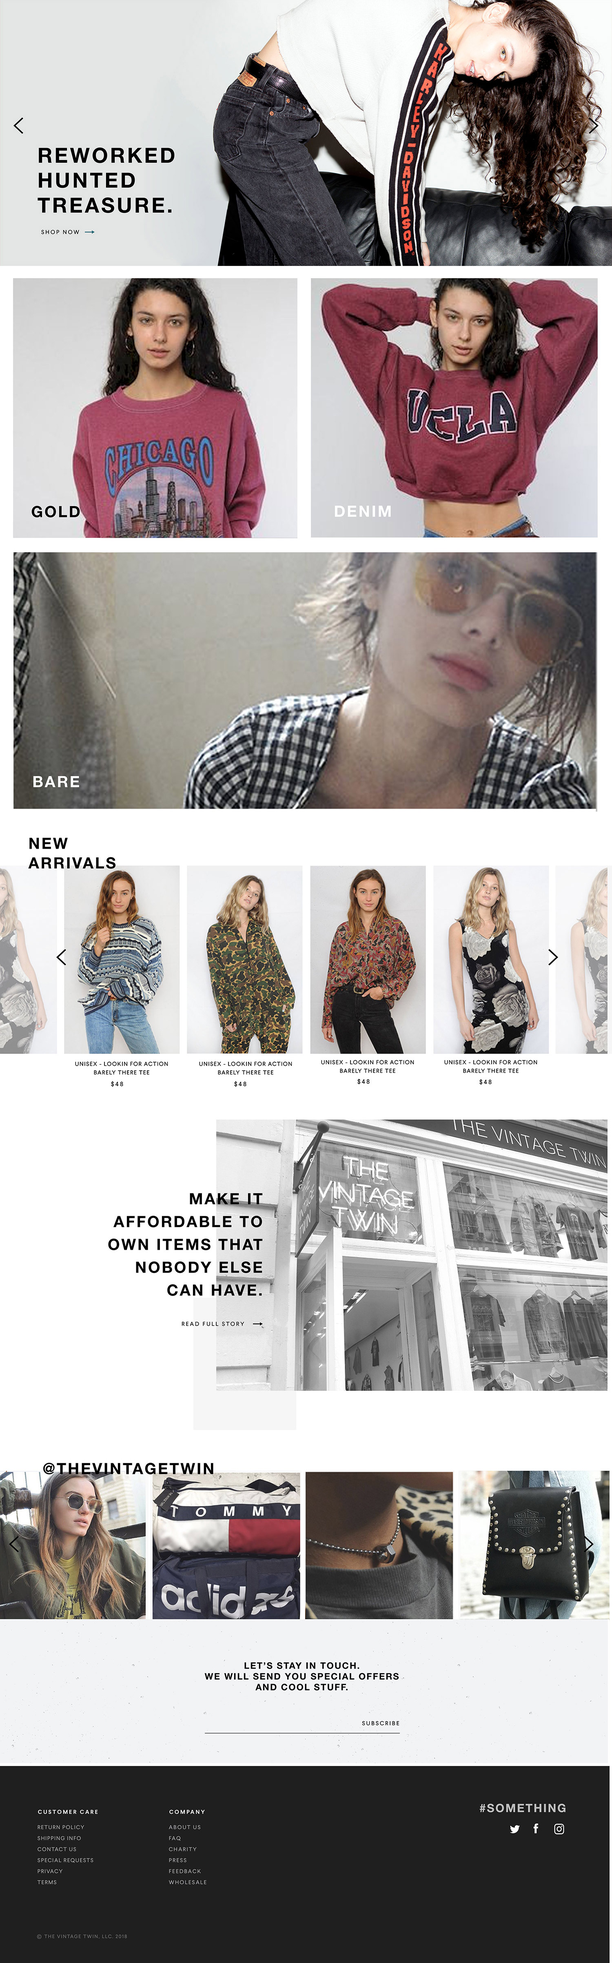
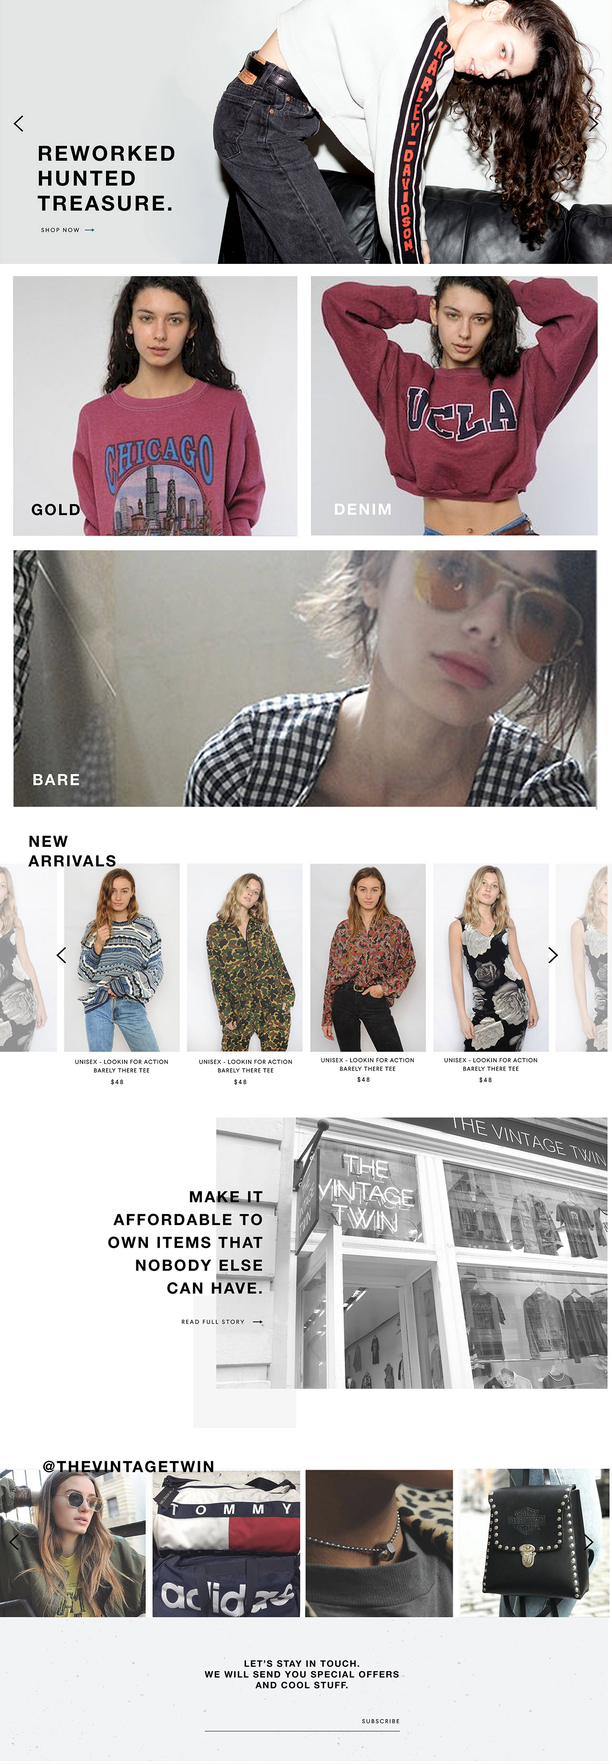
Implemented footer

diff --git a/style.css b/style.css
@@ -10,5 +10,5 @@
  */@font-face{font-family:'Font Awesome 5 Free';font-style:normal;font-weight:400;src:url("../../fonts/fa-regular-400.eot");src:url("../../fonts/fa-regular-400.eot?#iefix") format("embedded-opentype"),url("../../fonts/fa-regular-400.woff2") format("woff2"),url("../../fonts/fa-regular-400.woff") format("woff"),url("../../fonts/fa-regular-400.ttf") format("truetype"),url("../../fonts/fa-regular-400.svg#fontawesome") format("svg")}.far{font-family:'Font Awesome 5 Free';font-weight:400}/*!
  * Font Awesome Free 5.0.13 by @fontawesome - https://fontawesome.com
  * License - https://fontawesome.com/license (Icons: CC BY 4.0, Fonts: SIL OFL 1.1, Code: MIT License)
- */@font-face{font-family:'Font Awesome 5 Free';font-style:normal;font-weight:900;src:url("../../fonts/fa-solid-900.eot");src:url("../../fonts/fa-solid-900.eot?#iefix") format("embedded-opentype"),url("../../fonts/fa-solid-900.woff2") format("woff2"),url("../../fonts/fa-solid-900.woff") format("woff"),url("../../fonts/fa-solid-900.ttf") format("truetype"),url("../../fonts/fa-solid-900.svg#fontawesome") format("svg")}.fa,.fas{font-family:'Font Awesome 5 Free';font-weight:900}a,a[href^=tel]{color:inherit}@font-face{font-family:'Larsseit';src:url("fonts/Larsseit-Medium.eot");src:url("fonts/Larsseit-Medium.eot?#iefix") format("embedded-opentype"),url("fonts/Larsseit-Medium.woff2") format("woff2"),url("fonts/Larsseit-Medium.woff") format("woff"),url("fonts/Larsseit-Medium.ttf") format("truetype"),url("fonts/Larsseit-Medium.svg#Larsseit-Medium") format("svg");font-weight:500;font-style:normal}@font-face{font-family:'Larsseit';src:url("fonts/Larsseit-Light.eot");src:url("fonts/Larsseit-Light.eot?#iefix") format("embedded-opentype"),url("fonts/Larsseit-Light.woff2") format("woff2"),url("fonts/Larsseit-Light.woff") format("woff"),url("fonts/Larsseit-Light.ttf") format("truetype"),url("fonts/Larsseit-Light.svg#Larsseit-Light") format("svg");font-weight:300;font-style:normal}@font-face{font-family:'Larsseit';src:url("fonts/Larsseit.eot");src:url("fonts/Larsseit.eot?#iefix") format("embedded-opentype"),url("fonts/Larsseit.woff2") format("woff2"),url("fonts/Larsseit.woff") format("woff"),url("fonts/Larsseit.ttf") format("truetype"),url("fonts/Larsseit.svg#Larsseit") format("svg");font-weight:normal;font-style:normal}@font-face{font-family:'Larsseit';src:url("fonts/Larsseit-Bold.eot");src:url("fonts/Larsseit-Bold.eot?#iefix") format("embedded-opentype"),url("fonts/Larsseit-Bold.woff2") format("woff2"),url("fonts/Larsseit-Bold.woff") format("woff"),url("fonts/Larsseit-Bold.ttf") format("truetype"),url("fonts/Larsseit-Bold.svg#Larsseit-Bold") format("svg");font-weight:bold;font-style:normal}html{-ms-text-size-adjust:100%;-webkit-text-size-adjust:100%;font-size:62.5%}html,body{width:100%;margin:0;padding:0}body{background:white;font-family:"Helvetica", "Arial", sans-serif;-webkit-font-smoothing:antialiased}ul,menu,dir{-webkit-margin-before:0em;-webkit-margin-after:0em}*,*:before,*:after{-webkit-box-sizing:border-box;-moz-box-sizing:border-box;box-sizing:border-box}article,aside,details,figcaption,figure,footer,header,hgroup,main,menu,nav,section,summary{border:none;outline:none;margin:0;padding:0;display:block;position:relative}audio,canvas,progress,video{display:inline-block;vertical-align:baseline}audio:not([controls]){display:none;height:0}[hidden],template{display:none}img,embed,object,video,iframe{border:none;outline:none;max-width:100%;vertical-align:bottom}form{position:relative;display:block;width:100%}input[type="text"],input[type="submit"],button{display:block;margin:0;padding:0;border-radius:0;-moz-border-radius:0;-webkit-border-radius:0;-webkit-appearance:none;border:0;outline:none;position:relative;z-index:0;width:100%;-webkit-text-fill-color:inherit}input[type="text"]:-webkit-autofill{-webkit-box-shadow:0 0 0px 1000px black inset}input,button,select,textarea{font-family:inherit;font-size:inherit;line-height:inherit}::-webkit-input-placeholder{color:inherit}::-moz-placeholder{color:inherit}::-ms-placeholder{color:inherit}::placeholder{color:inherit}figure{margin:0}.clearfix:before,.clearfix:after{content:" ";display:table}.clearfix:after{clear:both}textarea{position:relative;display:block;margin:0;padding:0;-webkit-appearance:none}.centered{display:block;margin:0 auto;float:none}.invisible{visibility:hidden}blockquote p:before,blockquote p:after{content:'"';font-style:italic}.clear{clear:both}div{display:block;position:relative;vertical-align:bottom}a:link,a:visited,a:hover,a:active{text-decoration:none;border:none;outline:none;color:inherit}a[href^=tel]{text-decoration:none}h1,h2,h3,h4,h5,h6{margin:0;font-weight:900}h1{font-size:2.5em}h2{font-size:1.89em}h3{font-size:1.4em}h4{font-size:1.35em}p{margin:0.4em 0;font-size:1.23em;line-height:1.3;font-weight:200}abbr[title]{border-bottom:1px dotted}b,strong{font-weight:bold}dfn{font-style:italic}sup{top:-0.5em}sub{bottom:-0.25em}svg:not(:root){overflow:hidden}hr{-webkit-box-sizing:content-box;-moz-box-sizing:content-box;box-sizing:content-box;height:0}pre{overflow:auto}code,kbd,pre,samp{font-family:monospace, monospace;font-size:1em}button,input,optgroup,select,textarea{margin:0}button{overflow:visible}button,select{text-transform:none}button,html input[type="button"],input[type="reset"],input[type="submit"]{-webkit-appearance:button;cursor:pointer}button[disabled],html input[disabled]{cursor:default}button::-moz-focus-inner,input::-moz-focus-inner{border:0;padding:0}input{line-height:normal}input[type="checkbox"],input[type="radio"]{padding:0}input[type="number"]::-webkit-inner-spin-button,input[type="number"]::-webkit-outer-spin-button{height:auto}input[type="search"]{-webkit-appearance:textfield;-webkit-box-sizing:content-box;-moz-box-sizing:content-box;box-sizing:content-box}input[type="search"]::-webkit-search-cancel-button,input[type="search"]::-webkit-search-decoration{-webkit-appearance:none}fieldset{border:1px solid #c0c0c0;margin:0 2px;padding:0.35em 0.625em 0.75em}legend{border:0;padding:0}textarea{overflow:auto}optgroup{font-weight:bold}table{border-collapse:collapse;border-spacing:0}td,th{padding:0}.visible-print-block{display:none !important}.visible-print-inline{display:none !important}.visible-print-inline-block{display:none !important}@media print{*,*:before,*:after{background:transparent !important;color:#000 !important;-webkit-box-shadow:none !important;box-shadow:none !important;text-shadow:none !important}a,a:visited{text-decoration:underline}a[href]:after{content:" (" attr(href) ")"}abbr[title]:after{content:" (" attr(title) ")"}a[href^="#"]:after,a[href^="javascript:"]:after{content:""}pre,blockquote{border:1px solid #999;page-break-inside:avoid}thead{display:table-header-group}tr,img{page-break-inside:avoid}img{max-width:100% !important}p,h2,h3{orphans:3;widows:3}h2,h3{page-break-after:avoid}.navbar{display:none}.btn>.caret,.dropup>.btn>.caret{border-top-color:#000 !important}.label{border:1px solid #000}.table{border-collapse:collapse !important}.table td,.table th{background-color:#fff !important}.table-bordered th,.table-bordered td{border:1px solid #ddd !important}.visible-print{display:block !important}table.visible-print{display:table !important}tr.visible-print{display:table-row !important}th.visible-print,td.visible-print{display:table-cell !important}.visible-print-block{display:block !important}.visible-print-inline{display:inline !important}.visible-print-inline-block{display:inline-block !important}.hidden-print{display:none !important}}.__dev__{position:absolute;left:0;top:0;z-index:9999;background:url("dev/home_d.jpg") no-repeat center 0em/1500px;height:4953px;width:100%;opacity:0.4;display:none}.container{margin-right:auto;margin-left:auto;padding-left:15px;padding-right:15px}@media (min-width: 768px){.container{width:750px}}@media (min-width: 940px){.container{width:970px}}@media (min-width: 1500px){.container{width:1470px}}.container-fluid{margin-right:auto;margin-left:auto;padding-left:15px;padding-right:15px}.row{margin-left:-15px;margin-right:-15px}.col-xs-1,.col-sm-1,.col-md-1,.col-lg-1,.col-xs-2,.col-sm-2,.col-md-2,.col-lg-2,.col-xs-3,.col-sm-3,.col-md-3,.col-lg-3,.col-xs-4,.col-sm-4,.col-md-4,.col-lg-4,.col-xs-5,.col-sm-5,.col-md-5,.col-lg-5,.col-xs-6,.col-sm-6,.col-md-6,.col-lg-6,.col-xs-7,.col-sm-7,.col-md-7,.col-lg-7,.col-xs-8,.col-sm-8,.col-md-8,.col-lg-8,.col-xs-9,.col-sm-9,.col-md-9,.col-lg-9,.col-xs-10,.col-sm-10,.col-md-10,.col-lg-10,.col-xs-11,.col-sm-11,.col-md-11,.col-lg-11,.col-xs-12,.col-sm-12,.col-md-12,.col-lg-12{position:relative;padding-left:15px;padding-right:15px}.col-xs-1,.col-xs-2,.col-xs-3,.col-xs-4,.col-xs-5,.col-xs-6,.col-xs-7,.col-xs-8,.col-xs-9,.col-xs-10,.col-xs-11,.col-xs-12{float:left}.col-xs-12{width:100%}.col-xs-11{width:91.66666667%}.col-xs-10{width:83.33333333%}.col-xs-9{width:75%}.col-xs-8{width:66.66666667%}.col-xs-7{width:58.33333333%}.col-xs-6{width:50%}.col-xs-5{width:41.66666667%}.col-xs-4{width:33.33333333%}.col-xs-3{width:25%}.col-xs-2{width:16.66666667%}.col-xs-1{width:8.33333333%}.col-xs-pull-12{right:100%}.col-xs-pull-11{right:91.66666667%}.col-xs-pull-10{right:83.33333333%}.col-xs-pull-9{right:75%}.col-xs-pull-8{right:66.66666667%}.col-xs-pull-7{right:58.33333333%}.col-xs-pull-6{right:50%}.col-xs-pull-5{right:41.66666667%}.col-xs-pull-4{right:33.33333333%}.col-xs-pull-3{right:25%}.col-xs-pull-2{right:16.66666667%}.col-xs-pull-1{right:8.33333333%}.col-xs-pull-0{right:auto}.col-xs-push-12{left:100%}.col-xs-push-11{left:91.66666667%}.col-xs-push-10{left:83.33333333%}.col-xs-push-9{left:75%}.col-xs-push-8{left:66.66666667%}.col-xs-push-7{left:58.33333333%}.col-xs-push-6{left:50%}.col-xs-push-5{left:41.66666667%}.col-xs-push-4{left:33.33333333%}.col-xs-push-3{left:25%}.col-xs-push-2{left:16.66666667%}.col-xs-push-1{left:8.33333333%}.col-xs-push-0{left:auto}.col-xs-offset-12{margin-left:100%}.col-xs-offset-11{margin-left:91.66666667%}.col-xs-offset-10{margin-left:83.33333333%}.col-xs-offset-9{margin-left:75%}.col-xs-offset-8{margin-left:66.66666667%}.col-xs-offset-7{margin-left:58.33333333%}.col-xs-offset-6{margin-left:50%}.col-xs-offset-5{margin-left:41.66666667%}.col-xs-offset-4{margin-left:33.33333333%}.col-xs-offset-3{margin-left:25%}.col-xs-offset-2{margin-left:16.66666667%}.col-xs-offset-1{margin-left:8.33333333%}.col-xs-offset-0{margin-left:0%}@media (min-width: 768px){.col-sm-1,.col-sm-2,.col-sm-3,.col-sm-4,.col-sm-5,.col-sm-6,.col-sm-7,.col-sm-8,.col-sm-9,.col-sm-10,.col-sm-11,.col-sm-12{float:left}.col-sm-12{width:100%}.col-sm-11{width:91.66666667%}.col-sm-10{width:83.33333333%}.col-sm-9{width:75%}.col-sm-8{width:66.66666667%}.col-sm-7{width:58.33333333%}.col-sm-6{width:50%}.col-sm-5{width:41.66666667%}.col-sm-4{width:33.33333333%}.col-sm-3{width:25%}.col-sm-2{width:16.66666667%}.col-sm-1{width:8.33333333%}.col-sm-pull-12{right:100%}.col-sm-pull-11{right:91.66666667%}.col-sm-pull-10{right:83.33333333%}.col-sm-pull-9{right:75%}.col-sm-pull-8{right:66.66666667%}.col-sm-pull-7{right:58.33333333%}.col-sm-pull-6{right:50%}.col-sm-pull-5{right:41.66666667%}.col-sm-pull-4{right:33.33333333%}.col-sm-pull-3{right:25%}.col-sm-pull-2{right:16.66666667%}.col-sm-pull-1{right:8.33333333%}.col-sm-pull-0{right:auto}.col-sm-push-12{left:100%}.col-sm-push-11{left:91.66666667%}.col-sm-push-10{left:83.33333333%}.col-sm-push-9{left:75%}.col-sm-push-8{left:66.66666667%}.col-sm-push-7{left:58.33333333%}.col-sm-push-6{left:50%}.col-sm-push-5{left:41.66666667%}.col-sm-push-4{left:33.33333333%}.col-sm-push-3{left:25%}.col-sm-push-2{left:16.66666667%}.col-sm-push-1{left:8.33333333%}.col-sm-push-0{left:auto}.col-sm-offset-12{margin-left:100%}.col-sm-offset-11{margin-left:91.66666667%}.col-sm-offset-10{margin-left:83.33333333%}.col-sm-offset-9{margin-left:75%}.col-sm-offset-8{margin-left:66.66666667%}.col-sm-offset-7{margin-left:58.33333333%}.col-sm-offset-6{margin-left:50%}.col-sm-offset-5{margin-left:41.66666667%}.col-sm-offset-4{margin-left:33.33333333%}.col-sm-offset-3{margin-left:25%}.col-sm-offset-2{margin-left:16.66666667%}.col-sm-offset-1{margin-left:8.33333333%}.col-sm-offset-0{margin-left:0%}}@media (min-width: 940px){.col-md-1,.col-md-2,.col-md-3,.col-md-4,.col-md-5,.col-md-6,.col-md-7,.col-md-8,.col-md-9,.col-md-10,.col-md-11,.col-md-12{float:left}.col-md-12{width:100%}.col-md-11{width:91.66666667%}.col-md-10{width:83.33333333%}.col-md-9{width:75%}.col-md-8{width:66.66666667%}.col-md-7{width:58.33333333%}.col-md-6{width:50%}.col-md-5{width:41.66666667%}.col-md-4{width:33.33333333%}.col-md-3{width:25%}.col-md-2{width:16.66666667%}.col-md-1{width:8.33333333%}.col-md-pull-12{right:100%}.col-md-pull-11{right:91.66666667%}.col-md-pull-10{right:83.33333333%}.col-md-pull-9{right:75%}.col-md-pull-8{right:66.66666667%}.col-md-pull-7{right:58.33333333%}.col-md-pull-6{right:50%}.col-md-pull-5{right:41.66666667%}.col-md-pull-4{right:33.33333333%}.col-md-pull-3{right:25%}.col-md-pull-2{right:16.66666667%}.col-md-pull-1{right:8.33333333%}.col-md-pull-0{right:auto}.col-md-push-12{left:100%}.col-md-push-11{left:91.66666667%}.col-md-push-10{left:83.33333333%}.col-md-push-9{left:75%}.col-md-push-8{left:66.66666667%}.col-md-push-7{left:58.33333333%}.col-md-push-6{left:50%}.col-md-push-5{left:41.66666667%}.col-md-push-4{left:33.33333333%}.col-md-push-3{left:25%}.col-md-push-2{left:16.66666667%}.col-md-push-1{left:8.33333333%}.col-md-push-0{left:auto}.col-md-offset-12{margin-left:100%}.col-md-offset-11{margin-left:91.66666667%}.col-md-offset-10{margin-left:83.33333333%}.col-md-offset-9{margin-left:75%}.col-md-offset-8{margin-left:66.66666667%}.col-md-offset-7{margin-left:58.33333333%}.col-md-offset-6{margin-left:50%}.col-md-offset-5{margin-left:41.66666667%}.col-md-offset-4{margin-left:33.33333333%}.col-md-offset-3{margin-left:25%}.col-md-offset-2{margin-left:16.66666667%}.col-md-offset-1{margin-left:8.33333333%}.col-md-offset-0{margin-left:0%}}@media (min-width: 1400px){.col-lg-1,.col-lg-2,.col-lg-3,.col-lg-4,.col-lg-5,.col-lg-6,.col-lg-7,.col-lg-8,.col-lg-9,.col-lg-10,.col-lg-11,.col-lg-12{float:left}.col-lg-12{width:100%}.col-lg-11{width:91.66666667%}.col-lg-10{width:83.33333333%}.col-lg-9{width:75%}.col-lg-8{width:66.66666667%}.col-lg-7{width:58.33333333%}.col-lg-6{width:50%}.col-lg-5{width:41.66666667%}.col-lg-4{width:33.33333333%}.col-lg-3{width:25%}.col-lg-2{width:16.66666667%}.col-lg-1{width:8.33333333%}.col-lg-pull-12{right:100%}.col-lg-pull-11{right:91.66666667%}.col-lg-pull-10{right:83.33333333%}.col-lg-pull-9{right:75%}.col-lg-pull-8{right:66.66666667%}.col-lg-pull-7{right:58.33333333%}.col-lg-pull-6{right:50%}.col-lg-pull-5{right:41.66666667%}.col-lg-pull-4{right:33.33333333%}.col-lg-pull-3{right:25%}.col-lg-pull-2{right:16.66666667%}.col-lg-pull-1{right:8.33333333%}.col-lg-pull-0{right:auto}.col-lg-push-12{left:100%}.col-lg-push-11{left:91.66666667%}.col-lg-push-10{left:83.33333333%}.col-lg-push-9{left:75%}.col-lg-push-8{left:66.66666667%}.col-lg-push-7{left:58.33333333%}.col-lg-push-6{left:50%}.col-lg-push-5{left:41.66666667%}.col-lg-push-4{left:33.33333333%}.col-lg-push-3{left:25%}.col-lg-push-2{left:16.66666667%}.col-lg-push-1{left:8.33333333%}.col-lg-push-0{left:auto}.col-lg-offset-12{margin-left:100%}.col-lg-offset-11{margin-left:91.66666667%}.col-lg-offset-10{margin-left:83.33333333%}.col-lg-offset-9{margin-left:75%}.col-lg-offset-8{margin-left:66.66666667%}.col-lg-offset-7{margin-left:58.33333333%}.col-lg-offset-6{margin-left:50%}.col-lg-offset-5{margin-left:41.66666667%}.col-lg-offset-4{margin-left:33.33333333%}.col-lg-offset-3{margin-left:25%}.col-lg-offset-2{margin-left:16.66666667%}.col-lg-offset-1{margin-left:8.33333333%}.col-lg-offset-0{margin-left:0%}}.clearfix:before,.clearfix:after,.container:before,.container:after,.container-fluid:before,.container-fluid:after,.row:before,.row:after{content:" ";display:table}.clearfix:after,.container:after,.container-fluid:after,.row:after{clear:both}.center-block{display:block;margin-left:auto;margin-right:auto}.pull-right{float:right !important}.pull-left{float:left !important}.hide{display:none !important}.show{display:block !important}.invisible{visibility:hidden}.text-hide{font:0/0 a;color:transparent;text-shadow:none;background-color:transparent;border:0}.hidden{display:none !important}.affix{position:fixed}@-ms-viewport{width:device-width}.visible-xs,.visible-sm,.visible-md,.visible-lg{display:none !important}.visible-xs-block,.visible-xs-inline,.visible-xs-inline-block,.visible-sm-block,.visible-sm-inline,.visible-sm-inline-block,.visible-md-block,.visible-md-inline,.visible-md-inline-block,.visible-lg-block,.visible-lg-inline,.visible-lg-inline-block{display:none !important}@media (max-width: 767px){.visible-xs{display:block !important}table.visible-xs{display:table !important}tr.visible-xs{display:table-row !important}th.visible-xs,td.visible-xs{display:table-cell !important}}@media (max-width: 767px){.visible-xs-block{display:block !important}}@media (max-width: 767px){.visible-xs-inline{display:inline !important}}@media (max-width: 767px){.visible-xs-inline-block{display:inline-block !important}}@media (min-width: 768px) and (max-width: 939px){.visible-sm{display:block !important}table.visible-sm{display:table !important}tr.visible-sm{display:table-row !important}th.visible-sm,td.visible-sm{display:table-cell !important}}@media (min-width: 768px) and (max-width: 939px){.visible-sm-block{display:block !important}}@media (min-width: 768px) and (max-width: 939px){.visible-sm-inline{display:inline !important}}@media (min-width: 768px) and (max-width: 939px){.visible-sm-inline-block{display:inline-block !important}}@media (min-width: 940px) and (max-width: 1399px){.visible-md{display:block !important}table.visible-md{display:table !important}tr.visible-md{display:table-row !important}th.visible-md,td.visible-md{display:table-cell !important}}@media (min-width: 940px) and (max-width: 1399px){.visible-md-block{display:block !important}}@media (min-width: 940px) and (max-width: 1399px){.visible-md-inline{display:inline !important}}@media (min-width: 940px) and (max-width: 1399px){.visible-md-inline-block{display:inline-block !important}}@media (min-width: 1400px){.visible-lg{display:block !important}table.visible-lg{display:table !important}tr.visible-lg{display:table-row !important}th.visible-lg,td.visible-lg{display:table-cell !important}}@media (min-width: 1400px){.visible-lg-block{display:block !important}}@media (min-width: 1400px){.visible-lg-inline{display:inline !important}}@media (min-width: 1400px){.visible-lg-inline-block{display:inline-block !important}}@media (max-width: 767px){.hidden-xs{display:none !important}}@media (min-width: 768px) and (max-width: 939px){.hidden-sm{display:none !important}}@media (min-width: 940px) and (max-width: 1399px){.hidden-md{display:none !important}}@media (min-width: 1400px){.hidden-lg{display:none !important}}.visible-print{display:none !important}.main_header{position:fixed;left:0;top:0;z-index:999;background:rgba(255,255,255,0.8);height:14em;width:100%;font-family:'Larsseit';font-weight:500}.main_header ul{list-style-type:none}.main_header__promo_bar{padding:0.8em 0;background:black;color:white;font-size:1.45em;font-weight:300;text-align:center;text-transform:uppercase;letter-spacing:0.3em}.main_header__promo_bar span{color:#b3f1e6}.main_header__logo{margin:3.6em 0 0;width:28.8em;float:left}.main_header__nav{float:left}.main_header__nav ul{margin:3.9em 7em 0;padding:0}.main_header__nav li{margin:0 1.03em;display:inline-block;text-transform:uppercase;color:black;font-size:1.4em;letter-spacing:0.25em}.main_header__nav .submenu{display:none}.main_header__secondary_nav{float:right}.main_header__secondary_nav ul{margin:3.7em 0 0;padding:0}.main_header__secondary_nav li{margin:0 0 0 0.73em;display:inline-block;vertical-align:middle;text-transform:uppercase;color:black;font-size:1.4em;letter-spacing:0.25em}.main_header__secondary_nav li:first-of-type{margin:0}.main_header__secondary_nav .fas,.main_header__secondary_nav .far{font-size:1.5em;cursor:pointer}.page_content{padding-top:14em}
+ */@font-face{font-family:'Font Awesome 5 Free';font-style:normal;font-weight:900;src:url("../../fonts/fa-solid-900.eot");src:url("../../fonts/fa-solid-900.eot?#iefix") format("embedded-opentype"),url("../../fonts/fa-solid-900.woff2") format("woff2"),url("../../fonts/fa-solid-900.woff") format("woff"),url("../../fonts/fa-solid-900.ttf") format("truetype"),url("../../fonts/fa-solid-900.svg#fontawesome") format("svg")}.fa,.fas{font-family:'Font Awesome 5 Free';font-weight:900}a,a[href^=tel]{color:inherit}@font-face{font-family:'Larsseit';src:url("fonts/Larsseit-Medium.eot");src:url("fonts/Larsseit-Medium.eot?#iefix") format("embedded-opentype"),url("fonts/Larsseit-Medium.woff2") format("woff2"),url("fonts/Larsseit-Medium.woff") format("woff"),url("fonts/Larsseit-Medium.ttf") format("truetype"),url("fonts/Larsseit-Medium.svg#Larsseit-Medium") format("svg");font-weight:500;font-style:normal}@font-face{font-family:'Larsseit';src:url("fonts/Larsseit-Light.eot");src:url("fonts/Larsseit-Light.eot?#iefix") format("embedded-opentype"),url("fonts/Larsseit-Light.woff2") format("woff2"),url("fonts/Larsseit-Light.woff") format("woff"),url("fonts/Larsseit-Light.ttf") format("truetype"),url("fonts/Larsseit-Light.svg#Larsseit-Light") format("svg");font-weight:300;font-style:normal}@font-face{font-family:'Larsseit';src:url("fonts/Larsseit.eot");src:url("fonts/Larsseit.eot?#iefix") format("embedded-opentype"),url("fonts/Larsseit.woff2") format("woff2"),url("fonts/Larsseit.woff") format("woff"),url("fonts/Larsseit.ttf") format("truetype"),url("fonts/Larsseit.svg#Larsseit") format("svg");font-weight:normal;font-style:normal}@font-face{font-family:'Larsseit';src:url("fonts/Larsseit-Bold.eot");src:url("fonts/Larsseit-Bold.eot?#iefix") format("embedded-opentype"),url("fonts/Larsseit-Bold.woff2") format("woff2"),url("fonts/Larsseit-Bold.woff") format("woff"),url("fonts/Larsseit-Bold.ttf") format("truetype"),url("fonts/Larsseit-Bold.svg#Larsseit-Bold") format("svg");font-weight:bold;font-style:normal}html{-ms-text-size-adjust:100%;-webkit-text-size-adjust:100%;font-size:62.5%}html,body{width:100%;margin:0;padding:0}body{background:white;font-family:"Helvetica", "Arial", sans-serif;-webkit-font-smoothing:antialiased}ul,menu,dir{-webkit-margin-before:0em;-webkit-margin-after:0em}*,*:before,*:after{-webkit-box-sizing:border-box;-moz-box-sizing:border-box;box-sizing:border-box}article,aside,details,figcaption,figure,footer,header,hgroup,main,menu,nav,section,summary{border:none;outline:none;margin:0;padding:0;display:block;position:relative}audio,canvas,progress,video{display:inline-block;vertical-align:baseline}audio:not([controls]){display:none;height:0}[hidden],template{display:none}img,embed,object,video,iframe{border:none;outline:none;max-width:100%;vertical-align:bottom}form{position:relative;display:block;width:100%}input[type="text"],input[type="submit"],button{display:block;margin:0;padding:0;border-radius:0;-moz-border-radius:0;-webkit-border-radius:0;-webkit-appearance:none;border:0;outline:none;position:relative;z-index:0;width:100%;-webkit-text-fill-color:inherit}input[type="text"]:-webkit-autofill{-webkit-box-shadow:0 0 0px 1000px black inset}input,button,select,textarea{font-family:inherit;font-size:inherit;line-height:inherit}::-webkit-input-placeholder{color:inherit}::-moz-placeholder{color:inherit}::-ms-placeholder{color:inherit}::placeholder{color:inherit}figure{margin:0}.clearfix:before,.clearfix:after{content:" ";display:table}.clearfix:after{clear:both}textarea{position:relative;display:block;margin:0;padding:0;-webkit-appearance:none}.centered{display:block;margin:0 auto;float:none}.invisible{visibility:hidden}blockquote p:before,blockquote p:after{content:'"';font-style:italic}.clear{clear:both}div{display:block;position:relative;vertical-align:bottom}a:link,a:visited,a:hover,a:active{text-decoration:none;border:none;outline:none;color:inherit}a[href^=tel]{text-decoration:none}h1,h2,h3,h4,h5,h6{margin:0;font-weight:900}h1{font-size:2.5em}h2{font-size:1.89em}h3{font-size:1.4em}h4{font-size:1.35em}p{margin:0.4em 0;font-size:1.23em;line-height:1.3;font-weight:200}abbr[title]{border-bottom:1px dotted}b,strong{font-weight:bold}dfn{font-style:italic}sup{top:-0.5em}sub{bottom:-0.25em}svg:not(:root){overflow:hidden}hr{-webkit-box-sizing:content-box;-moz-box-sizing:content-box;box-sizing:content-box;height:0}pre{overflow:auto}code,kbd,pre,samp{font-family:monospace, monospace;font-size:1em}button,input,optgroup,select,textarea{margin:0}button{overflow:visible}button,select{text-transform:none}button,html input[type="button"],input[type="reset"],input[type="submit"]{-webkit-appearance:button;cursor:pointer}button[disabled],html input[disabled]{cursor:default}button::-moz-focus-inner,input::-moz-focus-inner{border:0;padding:0}input{line-height:normal}input[type="checkbox"],input[type="radio"]{padding:0}input[type="number"]::-webkit-inner-spin-button,input[type="number"]::-webkit-outer-spin-button{height:auto}input[type="search"]{-webkit-appearance:textfield;-webkit-box-sizing:content-box;-moz-box-sizing:content-box;box-sizing:content-box}input[type="search"]::-webkit-search-cancel-button,input[type="search"]::-webkit-search-decoration{-webkit-appearance:none}fieldset{border:1px solid #c0c0c0;margin:0 2px;padding:0.35em 0.625em 0.75em}legend{border:0;padding:0}textarea{overflow:auto}optgroup{font-weight:bold}table{border-collapse:collapse;border-spacing:0}td,th{padding:0}.visible-print-block{display:none !important}.visible-print-inline{display:none !important}.visible-print-inline-block{display:none !important}@media print{*,*:before,*:after{background:transparent !important;color:#000 !important;-webkit-box-shadow:none !important;box-shadow:none !important;text-shadow:none !important}a,a:visited{text-decoration:underline}a[href]:after{content:" (" attr(href) ")"}abbr[title]:after{content:" (" attr(title) ")"}a[href^="#"]:after,a[href^="javascript:"]:after{content:""}pre,blockquote{border:1px solid #999;page-break-inside:avoid}thead{display:table-header-group}tr,img{page-break-inside:avoid}img{max-width:100% !important}p,h2,h3{orphans:3;widows:3}h2,h3{page-break-after:avoid}.navbar{display:none}.btn>.caret,.dropup>.btn>.caret{border-top-color:#000 !important}.label{border:1px solid #000}.table{border-collapse:collapse !important}.table td,.table th{background-color:#fff !important}.table-bordered th,.table-bordered td{border:1px solid #ddd !important}.visible-print{display:block !important}table.visible-print{display:table !important}tr.visible-print{display:table-row !important}th.visible-print,td.visible-print{display:table-cell !important}.visible-print-block{display:block !important}.visible-print-inline{display:inline !important}.visible-print-inline-block{display:inline-block !important}.hidden-print{display:none !important}}.__dev__{position:absolute;left:0;top:0;z-index:9999;background:url("dev/home_d.jpg") no-repeat center -433em/1500px;height:4953px;width:100%;opacity:0.4;display:none}.container{margin-right:auto;margin-left:auto;padding-left:15px;padding-right:15px}@media (min-width: 768px){.container{width:750px}}@media (min-width: 940px){.container{width:970px}}@media (min-width: 1500px){.container{width:1470px}}.container-fluid{margin-right:auto;margin-left:auto;padding-left:15px;padding-right:15px}.row{margin-left:-15px;margin-right:-15px}.col-xs-1,.col-sm-1,.col-md-1,.col-lg-1,.col-xs-2,.col-sm-2,.col-md-2,.col-lg-2,.col-xs-3,.col-sm-3,.col-md-3,.col-lg-3,.col-xs-4,.col-sm-4,.col-md-4,.col-lg-4,.col-xs-5,.col-sm-5,.col-md-5,.col-lg-5,.col-xs-6,.col-sm-6,.col-md-6,.col-lg-6,.col-xs-7,.col-sm-7,.col-md-7,.col-lg-7,.col-xs-8,.col-sm-8,.col-md-8,.col-lg-8,.col-xs-9,.col-sm-9,.col-md-9,.col-lg-9,.col-xs-10,.col-sm-10,.col-md-10,.col-lg-10,.col-xs-11,.col-sm-11,.col-md-11,.col-lg-11,.col-xs-12,.col-sm-12,.col-md-12,.col-lg-12{position:relative;padding-left:15px;padding-right:15px}.col-xs-1,.col-xs-2,.col-xs-3,.col-xs-4,.col-xs-5,.col-xs-6,.col-xs-7,.col-xs-8,.col-xs-9,.col-xs-10,.col-xs-11,.col-xs-12{float:left}.col-xs-12{width:100%}.col-xs-11{width:91.66666667%}.col-xs-10{width:83.33333333%}.col-xs-9{width:75%}.col-xs-8{width:66.66666667%}.col-xs-7{width:58.33333333%}.col-xs-6{width:50%}.col-xs-5{width:41.66666667%}.col-xs-4{width:33.33333333%}.col-xs-3{width:25%}.col-xs-2{width:16.66666667%}.col-xs-1{width:8.33333333%}.col-xs-pull-12{right:100%}.col-xs-pull-11{right:91.66666667%}.col-xs-pull-10{right:83.33333333%}.col-xs-pull-9{right:75%}.col-xs-pull-8{right:66.66666667%}.col-xs-pull-7{right:58.33333333%}.col-xs-pull-6{right:50%}.col-xs-pull-5{right:41.66666667%}.col-xs-pull-4{right:33.33333333%}.col-xs-pull-3{right:25%}.col-xs-pull-2{right:16.66666667%}.col-xs-pull-1{right:8.33333333%}.col-xs-pull-0{right:auto}.col-xs-push-12{left:100%}.col-xs-push-11{left:91.66666667%}.col-xs-push-10{left:83.33333333%}.col-xs-push-9{left:75%}.col-xs-push-8{left:66.66666667%}.col-xs-push-7{left:58.33333333%}.col-xs-push-6{left:50%}.col-xs-push-5{left:41.66666667%}.col-xs-push-4{left:33.33333333%}.col-xs-push-3{left:25%}.col-xs-push-2{left:16.66666667%}.col-xs-push-1{left:8.33333333%}.col-xs-push-0{left:auto}.col-xs-offset-12{margin-left:100%}.col-xs-offset-11{margin-left:91.66666667%}.col-xs-offset-10{margin-left:83.33333333%}.col-xs-offset-9{margin-left:75%}.col-xs-offset-8{margin-left:66.66666667%}.col-xs-offset-7{margin-left:58.33333333%}.col-xs-offset-6{margin-left:50%}.col-xs-offset-5{margin-left:41.66666667%}.col-xs-offset-4{margin-left:33.33333333%}.col-xs-offset-3{margin-left:25%}.col-xs-offset-2{margin-left:16.66666667%}.col-xs-offset-1{margin-left:8.33333333%}.col-xs-offset-0{margin-left:0%}@media (min-width: 768px){.col-sm-1,.col-sm-2,.col-sm-3,.col-sm-4,.col-sm-5,.col-sm-6,.col-sm-7,.col-sm-8,.col-sm-9,.col-sm-10,.col-sm-11,.col-sm-12{float:left}.col-sm-12{width:100%}.col-sm-11{width:91.66666667%}.col-sm-10{width:83.33333333%}.col-sm-9{width:75%}.col-sm-8{width:66.66666667%}.col-sm-7{width:58.33333333%}.col-sm-6{width:50%}.col-sm-5{width:41.66666667%}.col-sm-4{width:33.33333333%}.col-sm-3{width:25%}.col-sm-2{width:16.66666667%}.col-sm-1{width:8.33333333%}.col-sm-pull-12{right:100%}.col-sm-pull-11{right:91.66666667%}.col-sm-pull-10{right:83.33333333%}.col-sm-pull-9{right:75%}.col-sm-pull-8{right:66.66666667%}.col-sm-pull-7{right:58.33333333%}.col-sm-pull-6{right:50%}.col-sm-pull-5{right:41.66666667%}.col-sm-pull-4{right:33.33333333%}.col-sm-pull-3{right:25%}.col-sm-pull-2{right:16.66666667%}.col-sm-pull-1{right:8.33333333%}.col-sm-pull-0{right:auto}.col-sm-push-12{left:100%}.col-sm-push-11{left:91.66666667%}.col-sm-push-10{left:83.33333333%}.col-sm-push-9{left:75%}.col-sm-push-8{left:66.66666667%}.col-sm-push-7{left:58.33333333%}.col-sm-push-6{left:50%}.col-sm-push-5{left:41.66666667%}.col-sm-push-4{left:33.33333333%}.col-sm-push-3{left:25%}.col-sm-push-2{left:16.66666667%}.col-sm-push-1{left:8.33333333%}.col-sm-push-0{left:auto}.col-sm-offset-12{margin-left:100%}.col-sm-offset-11{margin-left:91.66666667%}.col-sm-offset-10{margin-left:83.33333333%}.col-sm-offset-9{margin-left:75%}.col-sm-offset-8{margin-left:66.66666667%}.col-sm-offset-7{margin-left:58.33333333%}.col-sm-offset-6{margin-left:50%}.col-sm-offset-5{margin-left:41.66666667%}.col-sm-offset-4{margin-left:33.33333333%}.col-sm-offset-3{margin-left:25%}.col-sm-offset-2{margin-left:16.66666667%}.col-sm-offset-1{margin-left:8.33333333%}.col-sm-offset-0{margin-left:0%}}@media (min-width: 940px){.col-md-1,.col-md-2,.col-md-3,.col-md-4,.col-md-5,.col-md-6,.col-md-7,.col-md-8,.col-md-9,.col-md-10,.col-md-11,.col-md-12{float:left}.col-md-12{width:100%}.col-md-11{width:91.66666667%}.col-md-10{width:83.33333333%}.col-md-9{width:75%}.col-md-8{width:66.66666667%}.col-md-7{width:58.33333333%}.col-md-6{width:50%}.col-md-5{width:41.66666667%}.col-md-4{width:33.33333333%}.col-md-3{width:25%}.col-md-2{width:16.66666667%}.col-md-1{width:8.33333333%}.col-md-pull-12{right:100%}.col-md-pull-11{right:91.66666667%}.col-md-pull-10{right:83.33333333%}.col-md-pull-9{right:75%}.col-md-pull-8{right:66.66666667%}.col-md-pull-7{right:58.33333333%}.col-md-pull-6{right:50%}.col-md-pull-5{right:41.66666667%}.col-md-pull-4{right:33.33333333%}.col-md-pull-3{right:25%}.col-md-pull-2{right:16.66666667%}.col-md-pull-1{right:8.33333333%}.col-md-pull-0{right:auto}.col-md-push-12{left:100%}.col-md-push-11{left:91.66666667%}.col-md-push-10{left:83.33333333%}.col-md-push-9{left:75%}.col-md-push-8{left:66.66666667%}.col-md-push-7{left:58.33333333%}.col-md-push-6{left:50%}.col-md-push-5{left:41.66666667%}.col-md-push-4{left:33.33333333%}.col-md-push-3{left:25%}.col-md-push-2{left:16.66666667%}.col-md-push-1{left:8.33333333%}.col-md-push-0{left:auto}.col-md-offset-12{margin-left:100%}.col-md-offset-11{margin-left:91.66666667%}.col-md-offset-10{margin-left:83.33333333%}.col-md-offset-9{margin-left:75%}.col-md-offset-8{margin-left:66.66666667%}.col-md-offset-7{margin-left:58.33333333%}.col-md-offset-6{margin-left:50%}.col-md-offset-5{margin-left:41.66666667%}.col-md-offset-4{margin-left:33.33333333%}.col-md-offset-3{margin-left:25%}.col-md-offset-2{margin-left:16.66666667%}.col-md-offset-1{margin-left:8.33333333%}.col-md-offset-0{margin-left:0%}}@media (min-width: 1400px){.col-lg-1,.col-lg-2,.col-lg-3,.col-lg-4,.col-lg-5,.col-lg-6,.col-lg-7,.col-lg-8,.col-lg-9,.col-lg-10,.col-lg-11,.col-lg-12{float:left}.col-lg-12{width:100%}.col-lg-11{width:91.66666667%}.col-lg-10{width:83.33333333%}.col-lg-9{width:75%}.col-lg-8{width:66.66666667%}.col-lg-7{width:58.33333333%}.col-lg-6{width:50%}.col-lg-5{width:41.66666667%}.col-lg-4{width:33.33333333%}.col-lg-3{width:25%}.col-lg-2{width:16.66666667%}.col-lg-1{width:8.33333333%}.col-lg-pull-12{right:100%}.col-lg-pull-11{right:91.66666667%}.col-lg-pull-10{right:83.33333333%}.col-lg-pull-9{right:75%}.col-lg-pull-8{right:66.66666667%}.col-lg-pull-7{right:58.33333333%}.col-lg-pull-6{right:50%}.col-lg-pull-5{right:41.66666667%}.col-lg-pull-4{right:33.33333333%}.col-lg-pull-3{right:25%}.col-lg-pull-2{right:16.66666667%}.col-lg-pull-1{right:8.33333333%}.col-lg-pull-0{right:auto}.col-lg-push-12{left:100%}.col-lg-push-11{left:91.66666667%}.col-lg-push-10{left:83.33333333%}.col-lg-push-9{left:75%}.col-lg-push-8{left:66.66666667%}.col-lg-push-7{left:58.33333333%}.col-lg-push-6{left:50%}.col-lg-push-5{left:41.66666667%}.col-lg-push-4{left:33.33333333%}.col-lg-push-3{left:25%}.col-lg-push-2{left:16.66666667%}.col-lg-push-1{left:8.33333333%}.col-lg-push-0{left:auto}.col-lg-offset-12{margin-left:100%}.col-lg-offset-11{margin-left:91.66666667%}.col-lg-offset-10{margin-left:83.33333333%}.col-lg-offset-9{margin-left:75%}.col-lg-offset-8{margin-left:66.66666667%}.col-lg-offset-7{margin-left:58.33333333%}.col-lg-offset-6{margin-left:50%}.col-lg-offset-5{margin-left:41.66666667%}.col-lg-offset-4{margin-left:33.33333333%}.col-lg-offset-3{margin-left:25%}.col-lg-offset-2{margin-left:16.66666667%}.col-lg-offset-1{margin-left:8.33333333%}.col-lg-offset-0{margin-left:0%}}.clearfix:before,.clearfix:after,.container:before,.container:after,.container-fluid:before,.container-fluid:after,.row:before,.row:after{content:" ";display:table}.clearfix:after,.container:after,.container-fluid:after,.row:after{clear:both}.center-block{display:block;margin-left:auto;margin-right:auto}.pull-right{float:right !important}.pull-left{float:left !important}.hide{display:none !important}.show{display:block !important}.invisible{visibility:hidden}.text-hide{font:0/0 a;color:transparent;text-shadow:none;background-color:transparent;border:0}.hidden{display:none !important}.affix{position:fixed}@-ms-viewport{width:device-width}.visible-xs,.visible-sm,.visible-md,.visible-lg{display:none !important}.visible-xs-block,.visible-xs-inline,.visible-xs-inline-block,.visible-sm-block,.visible-sm-inline,.visible-sm-inline-block,.visible-md-block,.visible-md-inline,.visible-md-inline-block,.visible-lg-block,.visible-lg-inline,.visible-lg-inline-block{display:none !important}@media (max-width: 767px){.visible-xs{display:block !important}table.visible-xs{display:table !important}tr.visible-xs{display:table-row !important}th.visible-xs,td.visible-xs{display:table-cell !important}}@media (max-width: 767px){.visible-xs-block{display:block !important}}@media (max-width: 767px){.visible-xs-inline{display:inline !important}}@media (max-width: 767px){.visible-xs-inline-block{display:inline-block !important}}@media (min-width: 768px) and (max-width: 939px){.visible-sm{display:block !important}table.visible-sm{display:table !important}tr.visible-sm{display:table-row !important}th.visible-sm,td.visible-sm{display:table-cell !important}}@media (min-width: 768px) and (max-width: 939px){.visible-sm-block{display:block !important}}@media (min-width: 768px) and (max-width: 939px){.visible-sm-inline{display:inline !important}}@media (min-width: 768px) and (max-width: 939px){.visible-sm-inline-block{display:inline-block !important}}@media (min-width: 940px) and (max-width: 1399px){.visible-md{display:block !important}table.visible-md{display:table !important}tr.visible-md{display:table-row !important}th.visible-md,td.visible-md{display:table-cell !important}}@media (min-width: 940px) and (max-width: 1399px){.visible-md-block{display:block !important}}@media (min-width: 940px) and (max-width: 1399px){.visible-md-inline{display:inline !important}}@media (min-width: 940px) and (max-width: 1399px){.visible-md-inline-block{display:inline-block !important}}@media (min-width: 1400px){.visible-lg{display:block !important}table.visible-lg{display:table !important}tr.visible-lg{display:table-row !important}th.visible-lg,td.visible-lg{display:table-cell !important}}@media (min-width: 1400px){.visible-lg-block{display:block !important}}@media (min-width: 1400px){.visible-lg-inline{display:inline !important}}@media (min-width: 1400px){.visible-lg-inline-block{display:inline-block !important}}@media (max-width: 767px){.hidden-xs{display:none !important}}@media (min-width: 768px) and (max-width: 939px){.hidden-sm{display:none !important}}@media (min-width: 940px) and (max-width: 1399px){.hidden-md{display:none !important}}@media (min-width: 1400px){.hidden-lg{display:none !important}}.visible-print{display:none !important}.main_header{position:fixed;left:0;top:0;z-index:999;background:rgba(255,255,255,0.8);height:14em;width:100%;font-family:'Larsseit';font-weight:500}.main_header ul{list-style-type:none}.main_header__promo_bar{padding:0.8em 0;background:black;color:white;font-size:1.45em;font-weight:300;text-align:center;text-transform:uppercase;letter-spacing:0.3em}.main_header__promo_bar span{color:#b3f1e6}.main_header__logo{margin:3.6em 0 0;width:28.8em;float:left}.main_header__nav{float:left}.main_header__nav ul{margin:3.9em 7em 0;padding:0}.main_header__nav li{margin:0 1.03em;display:inline-block;text-transform:uppercase;color:black;font-size:1.4em;letter-spacing:0.25em}.main_header__nav .submenu{display:none}.main_header__secondary_nav{float:right}.main_header__secondary_nav ul{margin:3.7em 0 0;padding:0}.main_header__secondary_nav li{margin:0 0 0 0.73em;display:inline-block;vertical-align:middle;text-transform:uppercase;color:black;font-size:1.4em;letter-spacing:0.25em}.main_header__secondary_nav li:first-of-type{margin:0}.main_header__secondary_nav .fas,.main_header__secondary_nav .far{font-size:1.5em;cursor:pointer}.page_content{padding-top:14em}.main_footer{padding:10.5em 0;background:#1f1f1f}.main_footer dl{list-style-type:none}.main_footer__content{padding:0 6.2em}.main_footer__left_nav{margin:0 17.1em 0 0;float:left;font-family:'Larsseit'}.main_footer__left_nav dt,.main_footer__left_nav dd{text-transform:uppercase}.main_footer__left_nav dt{margin:0 0 1.5em;padding:0;color:white;font-size:1.35em;font-weight:900;letter-spacing:0.24em}.main_footer__left_nav dd{margin:0 0 0.75em;padding:0;color:#ababab;font-size:1.3em;letter-spacing:0.12em}.main_footer__right_nav{margin:0;padding:0;float:right;color:white;font-weight:900}.main_footer__right_nav dt{margin:0 0 0.9em;color:#c6c6c6;font-size:2.8em;font-weight:900;text-align:right;text-transform:uppercase;letter-spacing:0.1em}.main_footer__right_nav dd{margin:0 0 0 1.4em;padding:0;display:inline-block;color:#fefefe;font-size:2.8em}.main_footer__right_nav dd:first-of-type{margin:0 0 0 3em}.main_footer p{display:block;clear:both;color:#ababab;font-family:'Larsseit';text-transform:uppercse}
 /*# sourceMappingURL=style.css.map */

diff --git a/sass/layout/footer.scss b/sass/layout/footer.scss
@@ -1,0 +1,78 @@
+.main_footer {
+	padding: 10.5em 0;
+	background: $footer_bg_color;
+	
+	dl {
+		list-style-type: none;
+	}
+
+	&__content {
+		padding: 0 6.2em;
+	}
+	
+	&__left_nav {
+		margin: 0 17.1em 0 0;
+		float: left;
+		font-family: 'Larsseit';
+
+		dt,dd {
+			text-transform: uppercase;
+		}
+
+		dt {
+			margin: 0 0 1.5em;
+			padding: 0;
+			color: white;
+			font-size: 1.35em;
+			font-weight: 900;
+			letter-spacing: 0.24em;
+		}
+
+		dd {
+			margin: 0 0 0.75em;
+			padding: 0;
+			color: $footer_link_color;
+			font-size: 1.3em;
+			letter-spacing: 0.12em;
+		}
+	}
+
+	&__right_nav {
+		margin: 0;
+		padding: 0;
+		float: right;
+		color: white;
+		font-weight: 900;
+		
+		dt {
+			margin: 0 0 0.9em;
+			color: $footer_right_nav_color;
+			font-size: 2.8em;
+			font-weight: 900;
+			text-align: right;
+			text-transform: uppercase;
+			letter-spacing: 0.1em;
+		}
+
+		dd {
+			margin: 0 0 0 1.4em;
+			padding: 0;
+			display: inline-block;
+			color: $footer_social_link_color;
+			font-size: 2.8em;
+
+			&:first-of-type {
+				margin: 0 0 0 3em;
+			}
+		}
+	}
+
+	p {
+		display: block;
+		clear: both;
+		color: $footer_link_color;
+		font-family: 'Larsseit';
+		text-transform: uppercse;
+	}
+
+}

diff --git a/sass/base/dev.scss b/sass/base/dev.scss
@@ -3,7 +3,7 @@
 	left: 0;
 	top: 0;
 	z-index: 9999;
-	background: url('dev/home_d.jpg') no-repeat center 0em/1500px;
+	background: url('dev/home_d.jpg') no-repeat center -433em/1500px;
 	height: 4953px;
 	width: 100%;
 	opacity: 0.4;

diff --git a/sass/base/colors.scss b/sass/base/colors.scss
@@ -1,1 +1,5 @@
 $promo_highlight: #b3f1e6;
+$footer_bg_color: #1f1f1f;
+$footer_link_color: #ababab;
+$footer_social_link_color: #fefefe;
+$footer_right_nav_color: #c6c6c6;

diff --git a/sass/main.scss b/sass/main.scss
@@ -29,6 +29,7 @@ Version: 1.00
 
 @import "layout/header";
 @import "layout/page_settings";
+@import "layout/footer";
 
 
 

diff --git a/index.php b/index.php
@@ -49,7 +49,41 @@
 		<section class="page_content">
 			<main><img src="dev/temp_home_d.jpg"></main>
 		</section>
-		<footer></footer>
+		<footer class="main_footer">
+			<div class="container">
+				<div class="row">
+					<div class="col-lg-12">
+						<div class="main_footer__content">
+							<dl class="main_footer__left_nav">
+								<dt>customer care</dt>
+								<dd><a href="#">return policy</a></dd>
+								<dd><a href="#">shipping info</a></dd>
+								<dd><a href="#">contact us</a></dd>
+								<dd><a href="#">special requests</a></dd>
+								<dd><a href="#">privacy</a></dd>
+								<dd><a href="#">terms</a></dd>
+							</dl>
+							<dl class="main_footer__left_nav">
+								<dt>company</dt>
+								<dd><a href="#">about us</a></dd>
+								<dd><a href="#">faq</a></dd>
+								<dd><a href="#">charity</a></dd>
+								<dd><a href="#">press</a></dd>
+								<dd><a href="#">feedback</a></dd>
+								<dd><a href="#">wholesale</a></dd>
+							</dl>
+							<dl class="main_footer__right_nav">
+								<dt>#something</dt>
+								<dd><a href="#"><i class="fab fa-twitter"></i></a></dd>
+								<dd><a href="#"><i class="fab fa-facebook-f"></i></a></dd>
+								<dd><a href="#"><i class="fab fa-instagram"></i></a></dd>
+							</dl>
+							<p>&copy; the vintage twin. llc 2018</p>
+						</div>
+					</div>
+				</div>
+			</div>
+		</footer>
 	</section>
 </body>
 </html>
